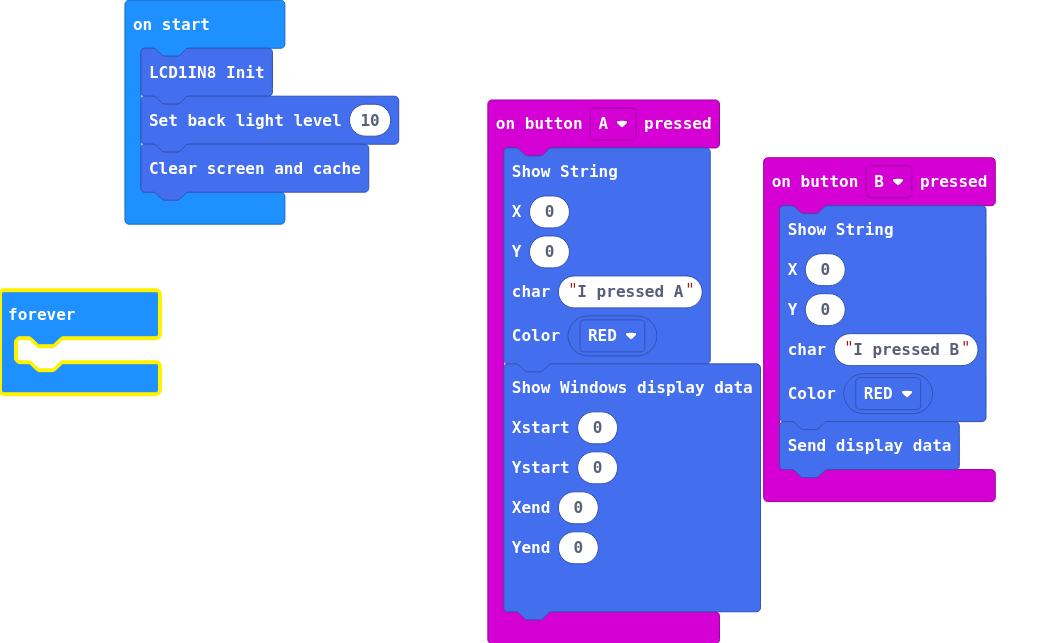
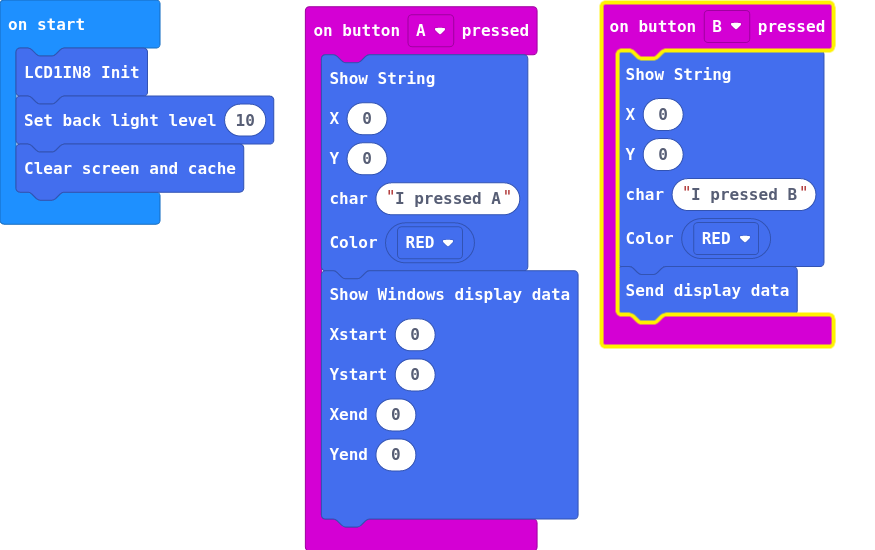
removed unused "forever" block, to see if that fixes the tests

diff --git a/main.ts b/main.ts
@@ -24,6 +24,3 @@ input.onButtonPressed(Button.B, function () {
 LCD1IN8.LCD_Init()
 LCD1IN8.LCD_SetBL(10)
 LCD1IN8.LCD_Clear()
-basic.forever(function () {
-	
-})
